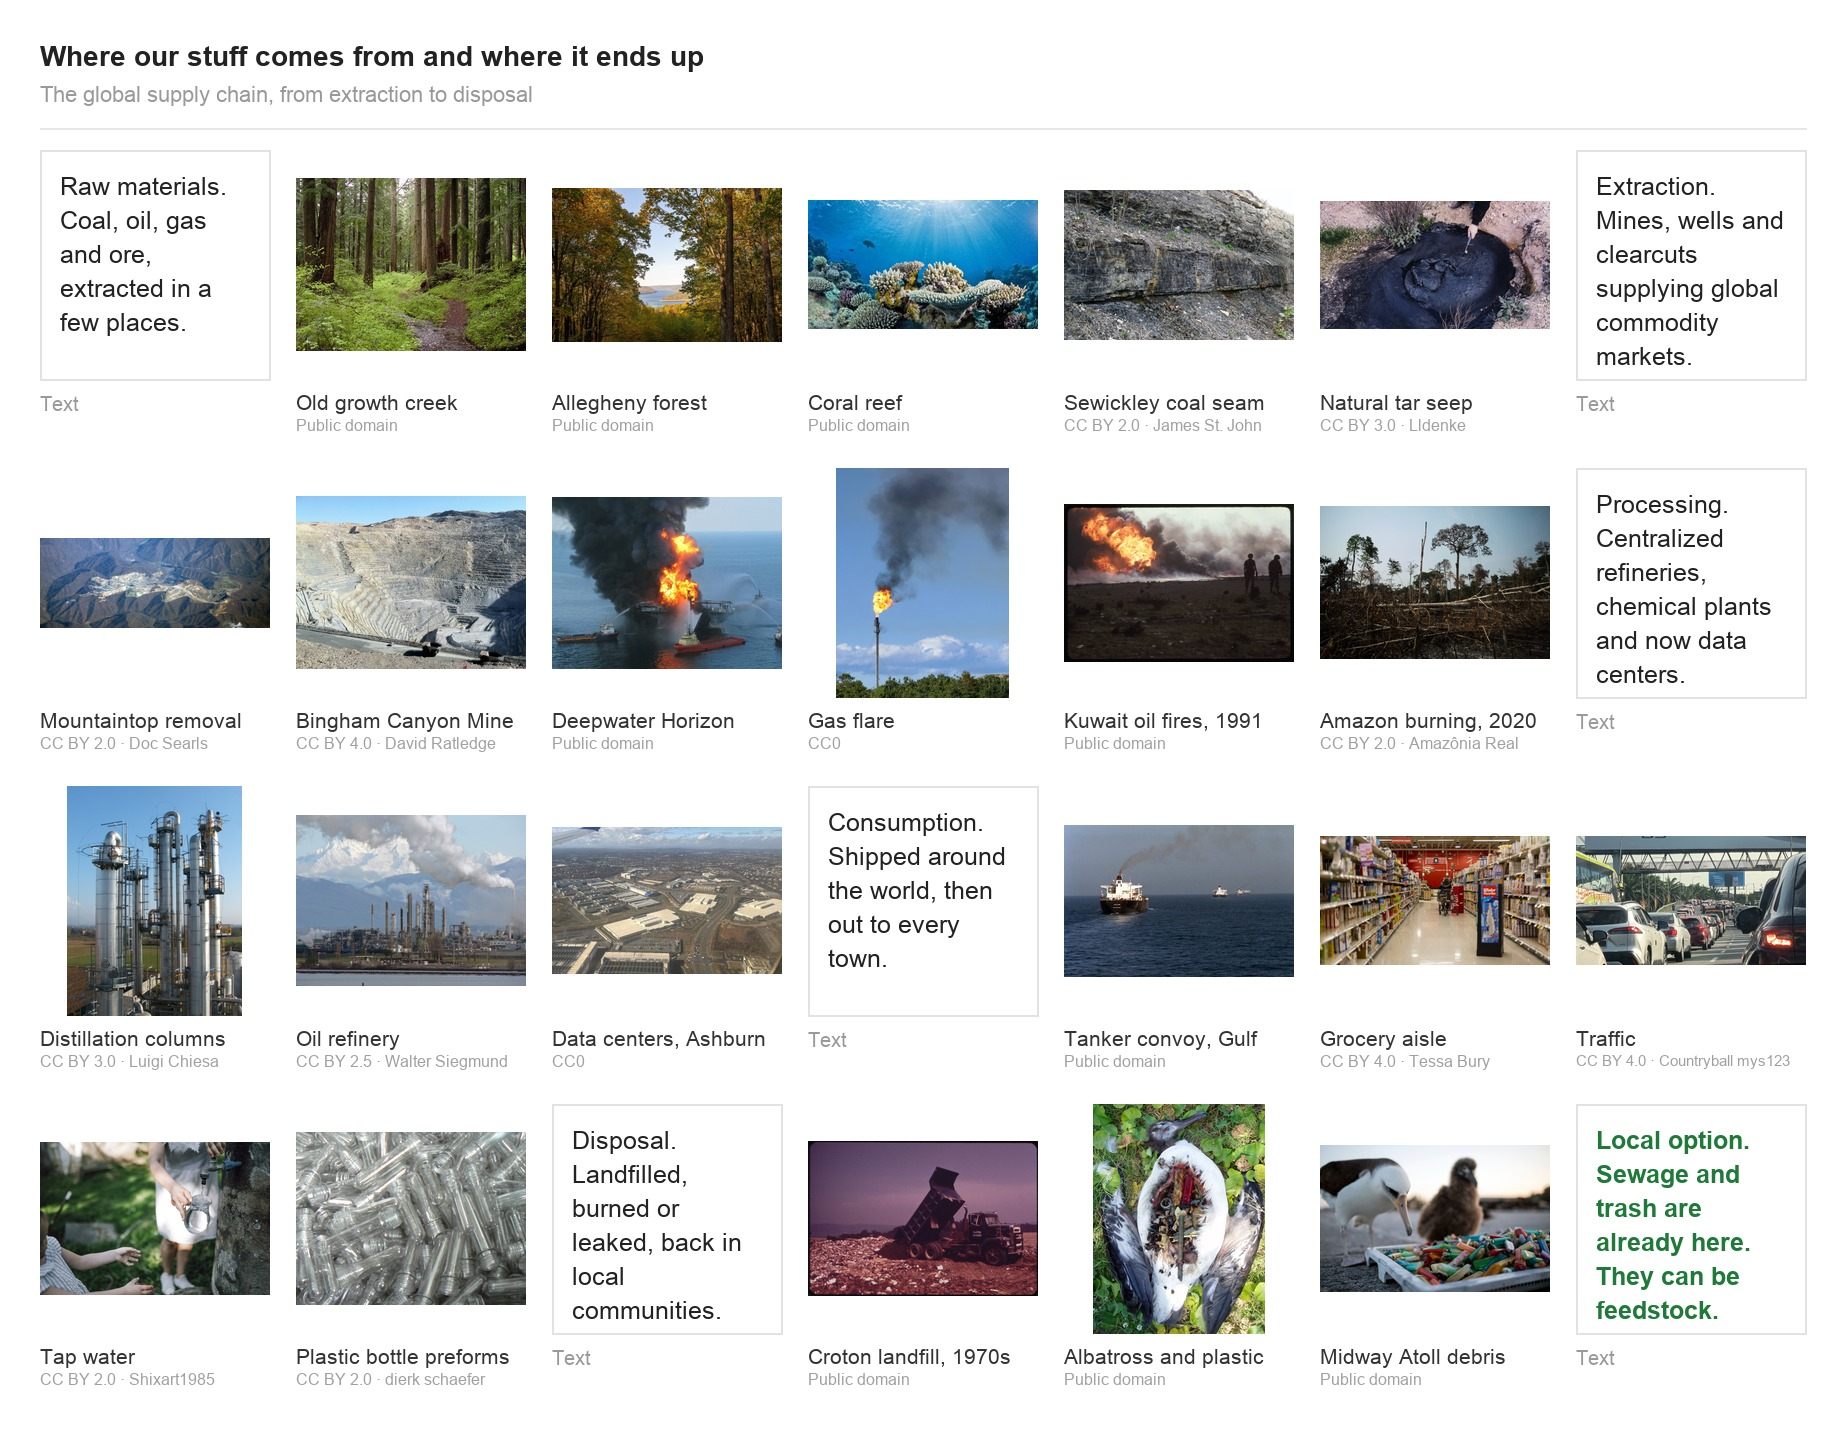
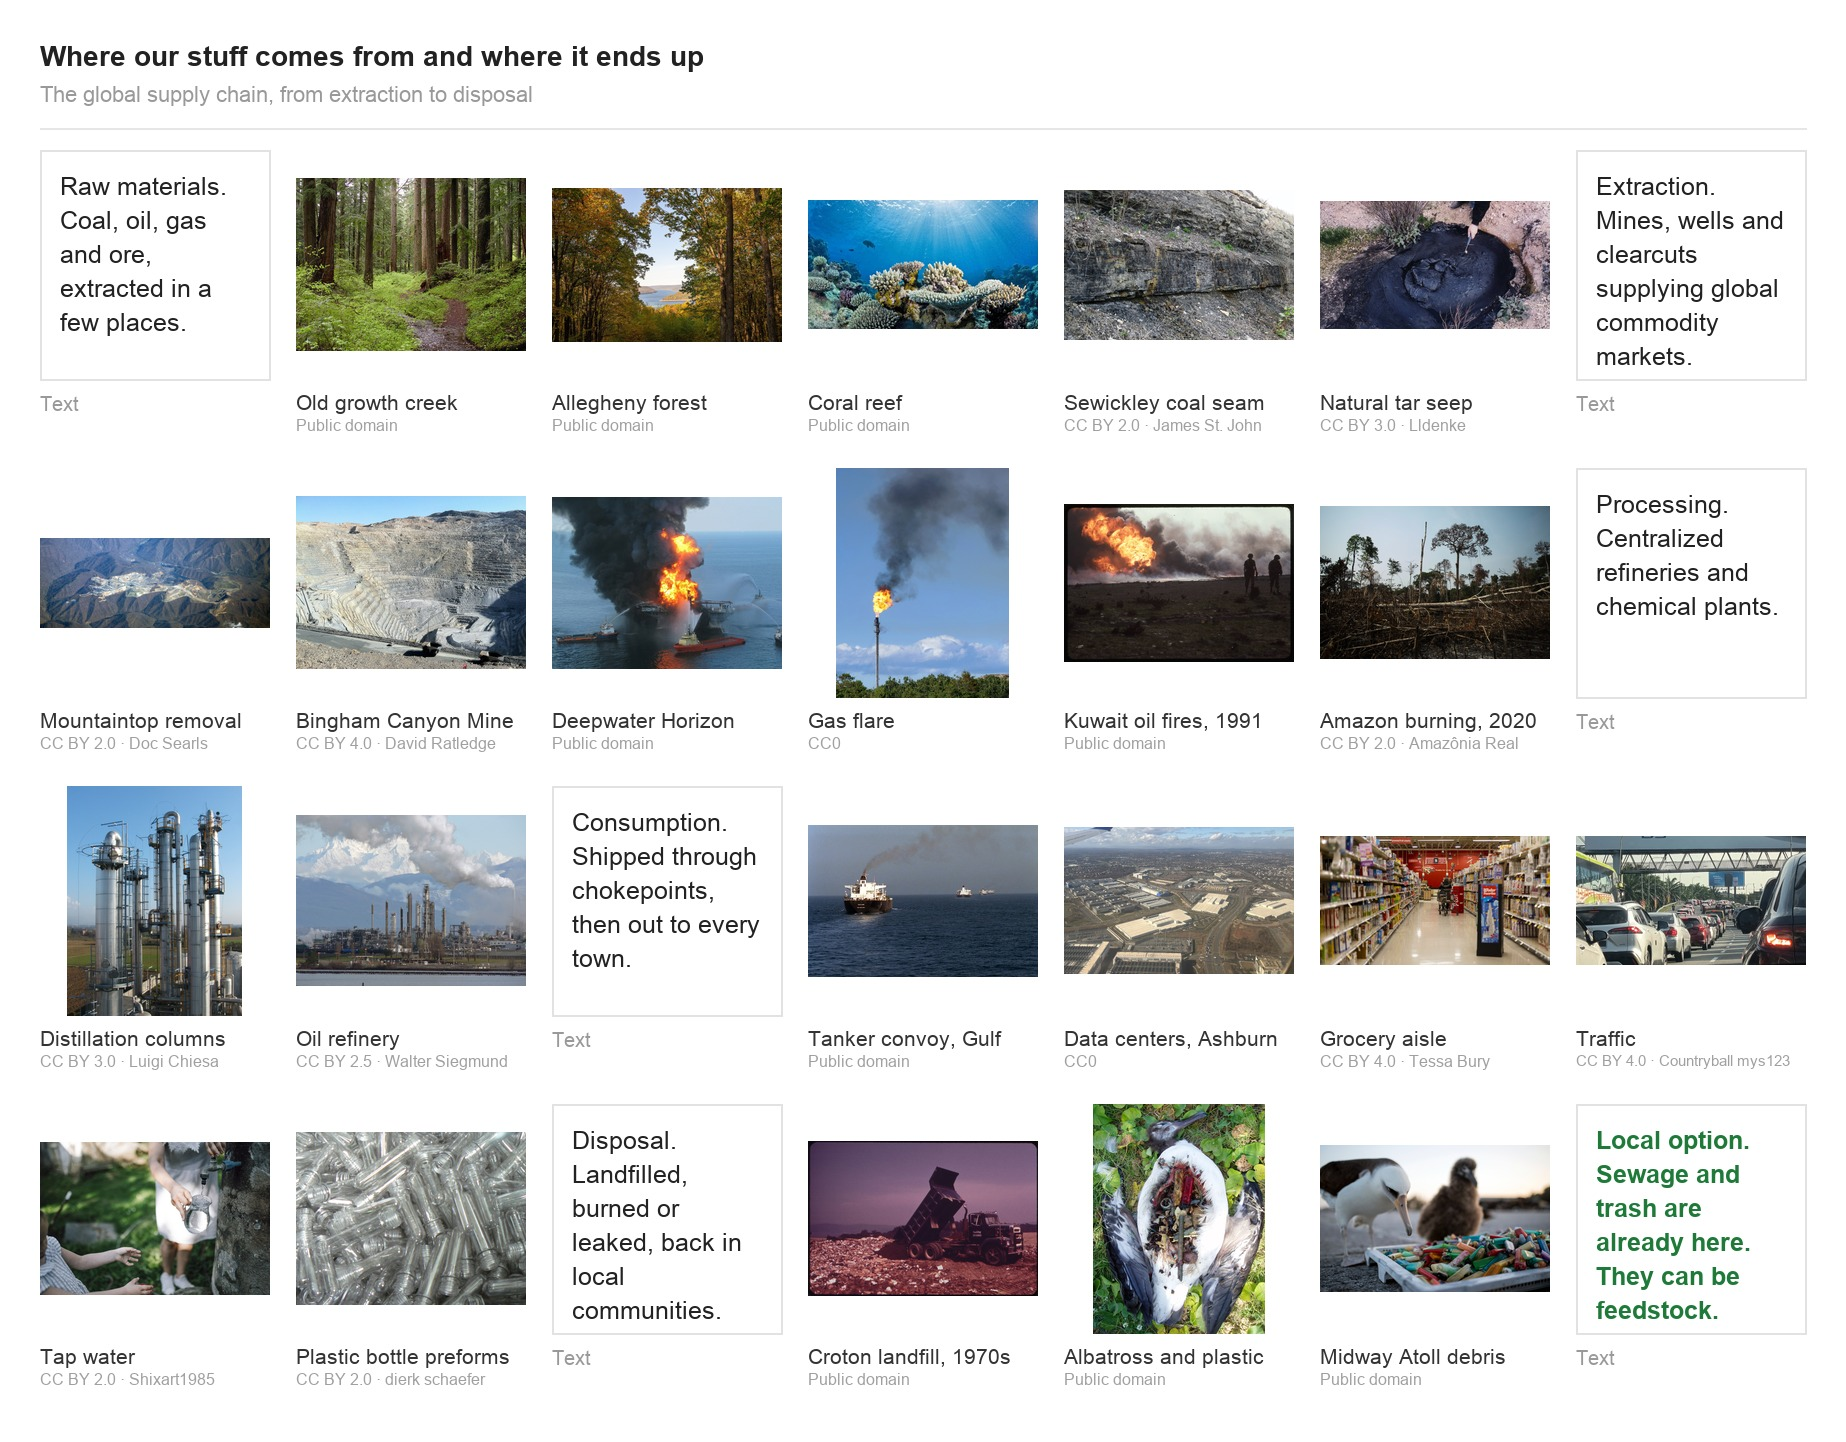
Move data centers to consumption and keep chokepoints general

diff --git a/index.html b/index.html
@@ -30,7 +30,7 @@ I am a licensed Professional Engineer (PE) in the state of New York.
 <p>
 My research interests include superstructure formulation, optimization, causality, waste valorization, world models and market decentralization.
 </p>
-<figure style="max-width:920px"><img src="images/taken_made_thrown_away.jpg" alt="A grid of photos following the global supply chain: forests, reefs and coal seams; mountaintop removal, the Deepwater Horizon fire, a gas flare, the 1991 Kuwait oil fires and Amazon burning; refineries and data centers; a tanker convoy in the Gulf; grocery aisles and traffic; a landfill and albatrosses full of plastic; ending with the note that what we throw away could replace what we take"><figcaption>Photos are public domain or Creative Commons, credited under each image.</figcaption></figure>
+<figure style="max-width:920px"><img src="images/taken_made_thrown_away.jpg" alt="A grid of photos following the global supply chain: forests, reefs and coal seams; mountaintop removal, the Deepwater Horizon fire, a gas flare, the 1991 Kuwait oil fires and Amazon burning; refineries; a tanker convoy in the Gulf and data centers; grocery aisles and traffic; a landfill and albatrosses full of plastic; ending with the note that what we throw away could replace what we take"><figcaption>Photos are public domain or Creative Commons, credited under each image.</figcaption></figure>
 <h3>Education</h3>
 M.S. Chemical Engineering, Carnegie Mellon University (Expected 2026)<br>
 B.S. Chemical Engineering (Minors: Bioengineering, Chemistry), Texas Tech University, 2015
